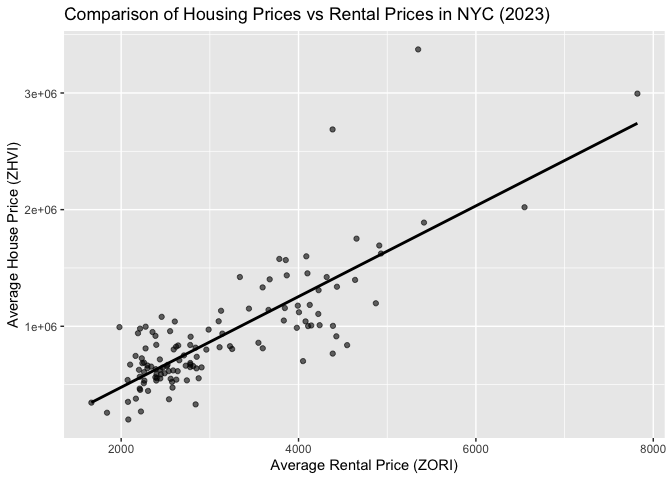
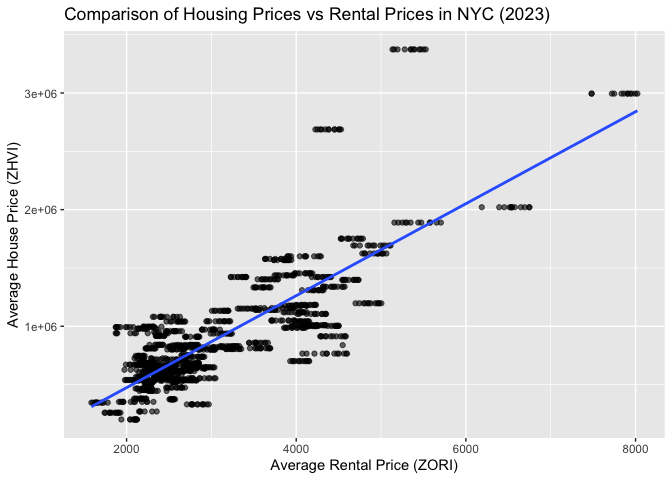
final version

diff --git a/p8105_mtp_mz3084-Meitong.md b/p8105_mtp_mz3084-Meitong.md
@@ -528,30 +528,27 @@ nyc_prices_2023 = merge(
     select(zip_code, avg_house_price),
   final_data |>
     filter(format(date, "%Y") == "2023") |>
-    group_by(zip_code) |>
-    summarise(avg_rental_price = mean(rental_price, na.rm = TRUE)),
+    mutate(month = format(date, "%Y-%m")) |> 
+    group_by(zip_code, month) |>
+    summarise(avg_rental_price = mean(rental_price, na.rm = TRUE), .groups = "drop"),
   by = "zip_code"
 )
 
-
 ggplot(nyc_prices_2023, aes(x = avg_rental_price, y = avg_house_price)) +
   geom_point(alpha = 0.6) +
-  geom_smooth(method = "lm", se = FALSE, color = "black") +
+  geom_smooth(method = "lm", formula = y ~ x, se = FALSE) +
   labs(title = "Comparison of Housing Prices vs Rental Prices in NYC (2023)",
        x = "Average Rental Price (ZORI)",
        y = "Average House Price (ZHVI)") +
- theme(legend.position = "bottom")
+  theme(legend.position = "bottom")
 ```
-
-    ## `geom_smooth()` using formula = 'y ~ x'
 
 ![](p8105_mtp_mz3084-Meitong_files/figure-gfm/unnamed-chunk-23-1.png)<!-- -->
 There is a positive correlation between housing prices and rental
 prices. Higher housing prices are usually accompanied by higher rents.
 In addition, the data points are concentrated in the rental price range
-of 2,000 to 4,000, and the housing prices are concentrated in the range
-of 1 million to 3 million, which reflects the housing and rental price
-situation in NYC.
+of 2,000 to 4,000, and the housing prices are concentrated under 3
+million, which reflects the housing and rental price situation in NYC.
 
 The Zillow dataset does not include ZIP codes in all regions, and some
 ZIP codes have incomplete or missing rental or housing price data. In
@@ -559,4 +556,4 @@ addition, some years of data in the dataset are missing, especially
 during the COVID-19 period, which may not reflect the true dynamics of
 the market.
 
-`499 Words`
+`493 Words`
